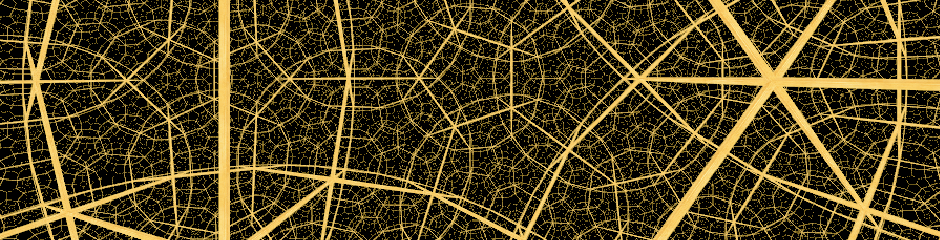
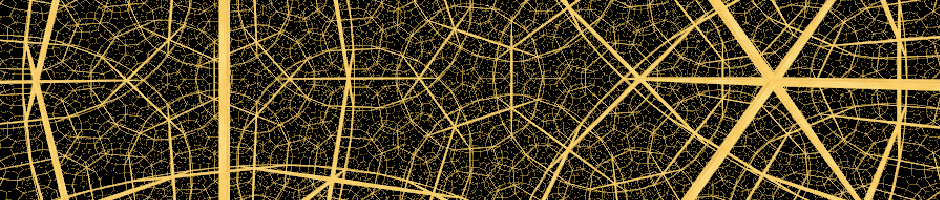
A tiny bit more
Adding Google Analytics; changing banner size and margins

diff --git a/index.html b/index.html
@@ -5,12 +5,12 @@
 <script type="text/javascript" src="jquery.js"></script>
 
 <html>
-<head>
+<head margins>
 <title>Sarah Lewin Home</title>
-
-<img src="hyperbolic_banner.png" style="width:940px" alt="Banner Image"/>
 </head>
 
+<body>
+<img src="hyperbolic_banner.png" style="width:940px" alt="Banner Image"/>
 <h1>Sarah Lewin: Science Writer</h1>
 
 <div id="wrapper">
@@ -19,6 +19,9 @@ I am a science writer and graduate student at New York University's Science, Hea
 </p>
 <p>
 If you're looking for my blog, that's back on <a href="http://www.sarahexplains.wordpress.com" target="_blank">Wordpress</a>. Check out my (admittedly not recently updated) posts explaining everything from the <a title="Introductions; The Tetris Effect" href="http://www.sarahexplains.wordpress.com/2012/08/25/tetris-effect/" target="_blank">Tetris Effect</a> to <a title="How Not to Sit in a Chair" href="http://www.sarahexplains.wordpress.com/2012/09/09/how-not-to-sit-in-a-chair/" target="_blank">How Not to Sit in a Chair</a>.
+</p>
+<p>
+I also know how to do things in HTML and Javascript sometimes; see below for a sortable selection of writing clips. Thanks for visiting!
 </p>
 
 </div>
@@ -210,4 +213,15 @@ $(document).ready(function(){
   if($(this).hasClass("clip")){$(this).removeClass("selected");}
   });
 });
+</script>
+
+<script>
+  (function(i,s,o,g,r,a,m){i['GoogleAnalyticsObject']=r;i[r]=i[r]||function(){
+  (i[r].q=i[r].q||[]).push(arguments)},i[r].l=1*new Date();a=s.createElement(o),
+  m=s.getElementsByTagName(o)[0];a.async=1;a.src=g;m.parentNode.insertBefore(a,m)
+  })(window,document,'script','//www.google-analytics.com/analytics.js','ga');
+
+  ga('create', 'UA-51692290-1', 'slewin.github.io');
+  ga('send', 'pageview');
+
 </script>

diff --git a/style.css b/style.css
@@ -1,6 +1,6 @@
 body {
   width:940px;
-  margin:40px auto;
+  margin:20px auto;
   font-family: Georgia, Times New Roman, serif;
   font-size: 15px;
   line-height: 1.5em;
